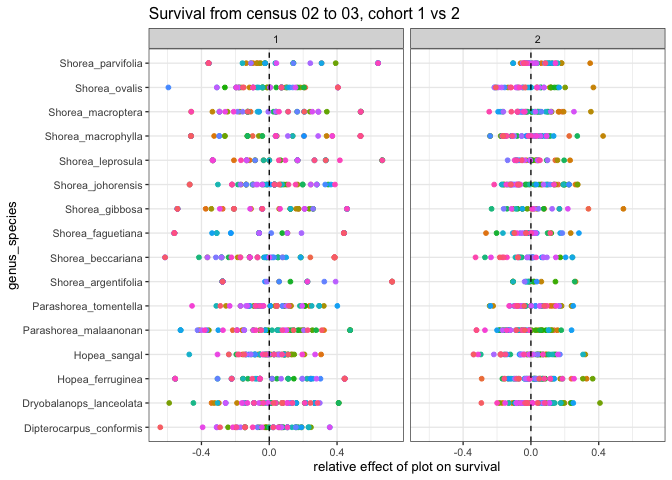
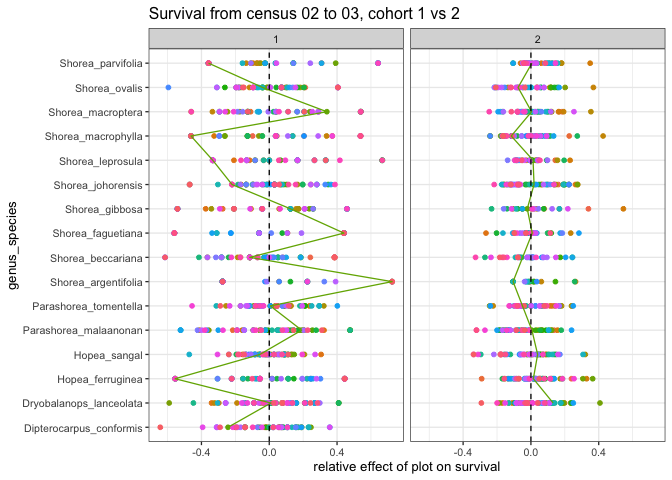
Update note

diff --git a/code/notebooks/2025-11-25_tuck-et-al-update.md b/code/notebooks/2025-11-25_tuck-et-al-update.md
@@ -1,13 +1,16 @@
 # The second decade of the Sabah biodiversity experiment
 eleanorjackson
-2025-11-25
+2025-11-28
 
 - [Calculate growth](#calculate-growth)
 - [Calculate survival](#calculate-survival)
-- [1) Life history trade off?](#1-life-history-trade-off)
-- [2) Spatial variation](#2-spatial-variation)
-- [3) Complementary species
-  interactions?](#3-complementary-species-interactions)
+- [Figure 1 - Life history trade
+  off?](#figure-1---life-history-trade-off)
+- [Figure 2 - Spatial variation](#figure-2---spatial-variation)
+- [Figure 3 - Complementary species
+  interactions?](#figure-3---complementary-species-interactions)
+- [Figure 4 - Monoculture seedling
+  densities](#figure-4---monoculture-seedling-densities)
 
 Have any results changed since [Tuck et
 al. (2016)](http://dx.doi.org/10.1098/rspb.2016.1451)?
@@ -28,6 +31,10 @@ al. (2016)](http://dx.doi.org/10.1098/rspb.2016.1451)?
 > here with the second cohort, which came from different stock.”
 
 5)  Any cohort effects?
+
+In this doc I’ll recreate the figures from [Tuck et
+al. (2016)](http://dx.doi.org/10.1098/rspb.2016.1451) to see if an extra
+decade has changed anything.
 
 ``` r
 library("tidyverse")
@@ -118,7 +125,7 @@ glimpse(data_gro_surv)
     $ growth_02_03   <dbl> -85.00000, 420.83333, 49.64539, NaN, 182.60870, NaN, Na…
     $ growth_01_03   <dbl> 56.38907, NA, 2223.78855, NA, 2551.70831, NA, NA, NA, N…
 
-# 1) Life history trade off?
+# Figure 1 - Life history trade off?
 
 ``` r
 data_gro_surv %>% 
@@ -207,7 +214,13 @@ data_gro_surv %>%
 
 ![](figures/2025-11-25_tuck-et-al-update/unnamed-chunk-9-1.png)
 
-# 2) Spatial variation
+> we found a clear life-history trade-off between survival and growth
+> and consistent differences among our 16 dipterocarps in their
+> positions along this trade-off during the two survey periods
+
+I think this finding still holds.
+
+# Figure 2 - Spatial variation
 
 > Spatial variation in species survival was quantified using predictions
 > from the random effect—a plot-level deviation from the average
@@ -264,8 +277,11 @@ spatial_surv_23 <-
   filter(n > 10) %>% 
   select(-n) %>% 
   left_join(sp_surv_23) %>% 
-  mutate(plot_effect = mean_survival_plot - mean_survival_sp)
+  mutate(plot_effect = mean_survival_plot - mean_survival_sp) %>% 
+  mutate(plot_cohort = paste0(plot, sep = "_", cohort))
 ```
+
+Plotting:
 
 ``` r
 spatial_surv_13 %>% 
@@ -273,6 +289,8 @@ spatial_surv_13 %>%
              y = genus_species,
              colour = plot)) +
   geom_point() +
+  geom_path(data = filter(spatial_surv_13, plot == "033"),
+            group = "plot") +
   theme(legend.position = "none") +
   geom_vline(xintercept = 0, linetype = 2) +
   labs(x = "relative effect of plot on survival",
@@ -285,12 +303,18 @@ Points represent the average survival of a species in a plot relative to
 the overall average of that species — so positive values show plots with
 better-than-average survival.
 
+> Species survival also responded to plot-level conditions in different
+> ways, so the most favourable location for one species could be one of
+> the least favourable for another (follow the red line in figure 2).
+
 ``` r
 spatial_surv_23 %>% 
   ggplot(aes(x = plot_effect,
              y = genus_species,
              colour = plot)) +
   geom_point() +
+  geom_path(data = filter(spatial_surv_23, plot == "033"),
+            group = "plot_cohort") +
   theme(legend.position = "none") +
   geom_vline(xintercept = 0, linetype = 2) +
   labs(x = "relative effect of plot on survival",
@@ -300,7 +324,9 @@ spatial_surv_23 %>%
 
 ![](figures/2025-11-25_tuck-et-al-update/unnamed-chunk-15-1.png)
 
-# 3) Complementary species interactions?
+Findings still hold true here.
+
+# Figure 3 - Complementary species interactions?
 
 ``` r
 data_gro_surv %>% 
@@ -342,7 +368,85 @@ data_gro_surv %>%
                width = 0.25,
                outlier.alpha = 0.5, 
                outlier.shape = 16) +
-  ylab("Increase in basal diameter between census 02 and 03 (%)")
+  ylab("Increase in basal diameter between census 02 and 03 (%)") +
+  facet_wrap(~cohort)
 ```
 
 ![](figures/2025-11-25_tuck-et-al-update/unnamed-chunk-18-1.png)
+
+> as expected, given the wide spacing of the planted seedlings, there is
+> no evidence of complementary species interactions in mixtures yet
+
+This seems to still be the case after 20 years.
+
+# Figure 4 - Monoculture seedling densities
+
+``` r
+data %>% 
+  filter(census_id == "full_measurement_03") %>% 
+  # remove 8 P.tomentella in the P.malaanonan monoculture
+  filter(!(plot == "070" & genus_species == "Parashorea_tomentella")) %>% 
+  filter(survival == 1) %>% 
+  mutate(sp_comp = case_when(
+    treatment == "monoculture" ~ genus_species,
+    .default = treatment
+  )) %>% 
+  group_by(plot, sp_comp) %>% 
+  summarise(n_trees_per_plot = n_distinct(plant_id)) %>% 
+  mutate(n_trees_per_ha = n_trees_per_plot / 4) %>% 
+  ggplot(aes(
+    x = n_trees_per_ha,
+    y = sp_comp
+  )) +
+  geom_point(shape = 16, alpha = 0.6) +
+  stat_summary(geom = "point", fun = "mean",
+               shape = 4, colour = "red", size = 3) +
+  ggtitle("Density of surviving seedlings in 16-species mixtures and monocultures")
+```
+
+![](figures/2025-11-25_tuck-et-al-update/unnamed-chunk-19-1.png)
+
+> The replicated monocultures of a given species were often more
+> variable than what we saw among the 16-species mixtures
+
+> The most extreme high and low seedling densities are found in
+> particular monocultures
+
+> After a decade, the lowest and highest seedling densities in the Sabah
+> biodiversity experiment plots were observed in monocultures consistent
+> with a potential insurance effect.
+
+These results still hold after 20 years.
+
+What if we look at basal area?
+
+``` r
+data %>% 
+  filter(census_id == "full_measurement_03") %>% 
+  # remove 8 P.tomentella in the P.malaanonan monoculture
+  filter(!(plot == "070" & genus_species == "Parashorea_tomentella")) %>% 
+  filter(survival == 1) %>% 
+  mutate(sp_comp = case_when(
+    treatment == "monoculture" ~ genus_species,
+    .default = treatment
+  )) %>% 
+  mutate(dbase_m = dbase_mm / 1000) %>% 
+  mutate(basal_area_m2 = pi * (dbase_m/2)^2) %>% 
+  group_by(plot, sp_comp) %>% 
+  summarise(sum_basal_area_m2 = sum(basal_area_m2, na.rm = TRUE)) %>% 
+  mutate(basal_area_per_ha = sum_basal_area_m2 / 4) %>% 
+  ggplot(aes(
+    x = basal_area_per_ha,
+    y = sp_comp
+  )) +
+  geom_point(shape = 16, alpha = 0.6) +
+  stat_summary(geom = "point", fun = "mean",
+               shape = 4, colour = "red", size = 3) +
+  labs(x = "Basal area per ha (m2)",
+    title = "Density of surviving seedlings in 16-species mixtures and monocultures")
+```
+
+![](figures/2025-11-25_tuck-et-al-update/unnamed-chunk-20-1.png)
+
+Less variation than when looking at density of surviving seedlings - at
+both plot and species level.
